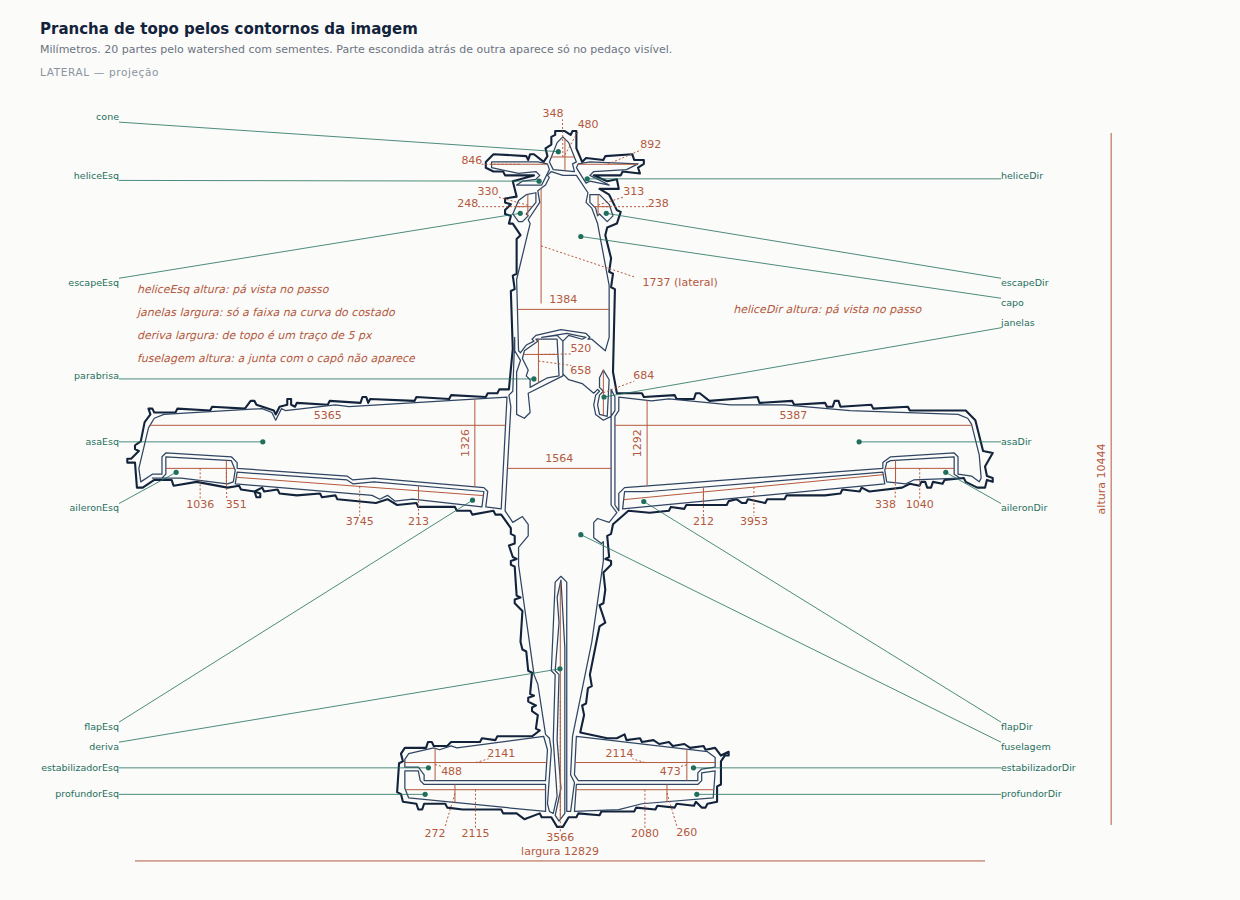
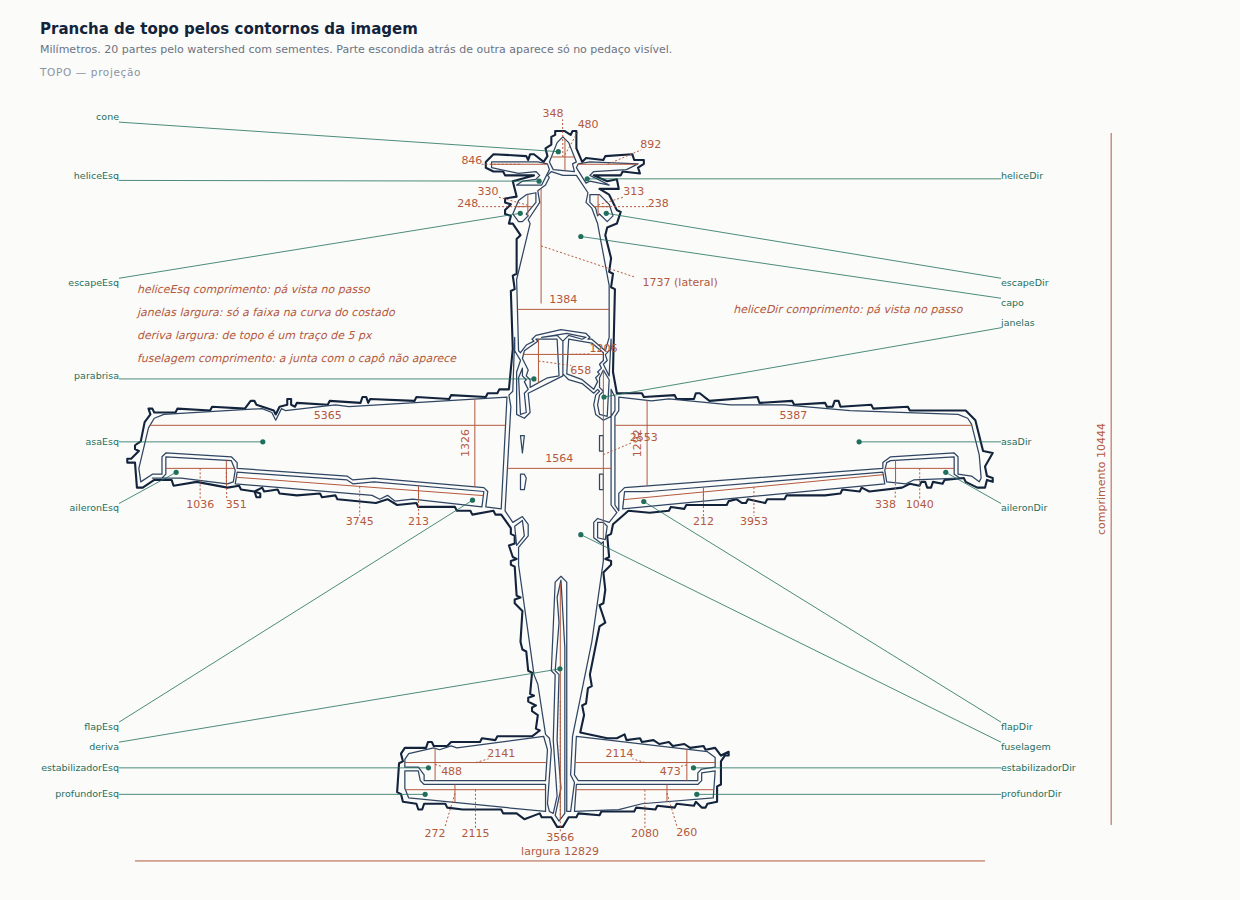
A prancha dos contornos sabe a vista (lateral, topo ou frontal)
Claude-Session: https://claude.ai/code/session_015i1y8CrgTgEfwGG2HEX8g8

diff --git a/docs/mecanifica/banco-de-provas/aviao-2026-10-11/referencias/topo.prancha.pacote/roteiro.md b/docs/mecanifica/banco-de-provas/aviao-2026-10-11/referencias/topo.prancha.pacote/roteiro.md
@@ -4,165 +4,165 @@ Siga as etapas na ordem e não pule nenhuma. Abra o alvo e a prancha em cada eta
 
 ## Etapa 1 — visão geral
 
-Abra o alvo (/home/user/nos-mecanifica/docs/mecanifica/banco-de-provas/aviao-2026-10-11/referencias/topo.png) e a prancha (/home/user/nos-mecanifica/docs/mecanifica/banco-de-provas/aviao-2026-10-11/referencias/topo.prancha.png). Confira se a silhueta da prancha segue a do alvo e se as cotas gerais de largura e altura estão nas bordas do objeto.
+Abra o alvo (/home/user/nos-mecanifica/docs/mecanifica/banco-de-provas/aviao-2026-10-11/referencias/topo.png) e a prancha (/home/user/nos-mecanifica/docs/mecanifica/banco-de-provas/aviao-2026-10-11/referencias/topo.prancha.png). A vista é topo: na horizontal a prancha mede largura e na vertical comprimento. Confira se a silhueta da prancha segue a do alvo e se as cotas gerais de largura e comprimento estão nas bordas do objeto.
 
 ## Etapa 2 — cone
 
-- cotas esperadas: largura (medida aqui) e altura (medida aqui). Cobre só estas duas; cota em falta é `cota` com sentido `faltando`.
+- cotas esperadas: largura (medida aqui) e comprimento (medida aqui). Cobre só estas duas; cota em falta é `cota` com sentido `faltando`.
 - largura: cota 348. A linha atravessa a seção que o modelador precisa, dentro de cone?
-- altura: cota 480. A linha mede cone de ponta a ponta na vertical, sem pegar parte vizinha?
+- comprimento: cota 480. A linha mede cone de ponta a ponta na vertical, sem pegar parte vizinha?
 - nome: "cone" fica na coluna da esquerda. A chamada termina dentro de cone, e não numa vizinha?
 - linhas livres: a chamada e as cotas de cone não cruzam outra linha nem passam sobre número ou nome?
 
 ## Etapa 3 — heliceEsq
 
-- cotas esperadas: largura (medida aqui) e altura (não medível: pá vista no passo). Cobre só estas duas; cota em falta é `cota` com sentido `faltando`.
+- cotas esperadas: largura (medida aqui) e comprimento (não medível: pá vista no passo). Cobre só estas duas; cota em falta é `cota` com sentido `faltando`.
 - largura: cota 846. A linha atravessa a seção que o modelador precisa, dentro de heliceEsq?
-- altura: EM FALTA: só há a nota "pá vista no passo", que não dá número. A linha mede heliceEsq de ponta a ponta na vertical, sem pegar parte vizinha?
+- comprimento: EM FALTA: só há a nota "pá vista no passo", que não dá número. A linha mede heliceEsq de ponta a ponta na vertical, sem pegar parte vizinha?
 - nome: "heliceEsq" fica na coluna da esquerda. A chamada termina dentro de heliceEsq, e não numa vizinha?
 - linhas livres: a chamada e as cotas de heliceEsq não cruzam outra linha nem passam sobre número ou nome?
 
 ## Etapa 4 — escapeEsq
 
-- cotas esperadas: largura (medida aqui) e altura (medida aqui). Cobre só estas duas; cota em falta é `cota` com sentido `faltando`.
+- cotas esperadas: largura (medida aqui) e comprimento (medida aqui). Cobre só estas duas; cota em falta é `cota` com sentido `faltando`.
 - largura: cota 248. A linha atravessa a seção que o modelador precisa, dentro de escapeEsq?
-- altura: cota 330. A linha mede escapeEsq de ponta a ponta na vertical, sem pegar parte vizinha?
+- comprimento: cota 330. A linha mede escapeEsq de ponta a ponta na vertical, sem pegar parte vizinha?
 - nome: "escapeEsq" fica na coluna da esquerda. A chamada termina dentro de escapeEsq, e não numa vizinha?
 - linhas livres: a chamada e as cotas de escapeEsq não cruzam outra linha nem passam sobre número ou nome?
 
 ## Etapa 5 — parabrisa
 
-- cotas esperadas: largura (medida aqui) e altura (medida aqui). Cobre só estas duas; cota em falta é `cota` com sentido `faltando`.
-- largura: cota 520. A linha atravessa a seção que o modelador precisa, dentro de parabrisa?
-- altura: cota 658. A linha mede parabrisa de ponta a ponta na vertical, sem pegar parte vizinha?
+- cotas esperadas: largura (medida aqui) e comprimento (medida aqui). Cobre só estas duas; cota em falta é `cota` com sentido `faltando`.
+- largura: cota 1206. A linha atravessa a seção que o modelador precisa, dentro de parabrisa?
+- comprimento: cota 658. A linha mede parabrisa de ponta a ponta na vertical, sem pegar parte vizinha?
 - nome: "parabrisa" fica na coluna da esquerda. A chamada termina dentro de parabrisa, e não numa vizinha?
 - linhas livres: a chamada e as cotas de parabrisa não cruzam outra linha nem passam sobre número ou nome?
 
 ## Etapa 6 — asaEsq
 
-- cotas esperadas: largura (medida aqui) e altura (medida aqui). Cobre só estas duas; cota em falta é `cota` com sentido `faltando`.
+- cotas esperadas: largura (medida aqui) e comprimento (medida aqui). Cobre só estas duas; cota em falta é `cota` com sentido `faltando`.
 - largura: cota 5365. A linha atravessa a seção que o modelador precisa, dentro de asaEsq?
-- altura: cota 1326. A linha mede asaEsq de ponta a ponta na vertical, sem pegar parte vizinha?
+- comprimento: cota 1326. A linha mede asaEsq de ponta a ponta na vertical, sem pegar parte vizinha?
 - nome: "asaEsq" fica na coluna da esquerda. A chamada termina dentro de asaEsq, e não numa vizinha?
 - linhas livres: a chamada e as cotas de asaEsq não cruzam outra linha nem passam sobre número ou nome?
 
 ## Etapa 7 — aileronEsq
 
-- cotas esperadas: largura (medida aqui) e altura (medida aqui). Cobre só estas duas; cota em falta é `cota` com sentido `faltando`.
+- cotas esperadas: largura (medida aqui) e comprimento (medida aqui). Cobre só estas duas; cota em falta é `cota` com sentido `faltando`.
 - largura: cota 1036. A linha atravessa a seção que o modelador precisa, dentro de aileronEsq?
-- altura: cota 351. A linha mede aileronEsq de ponta a ponta na vertical, sem pegar parte vizinha?
+- comprimento: cota 351. A linha mede aileronEsq de ponta a ponta na vertical, sem pegar parte vizinha?
 - nome: "aileronEsq" fica na coluna da esquerda. A chamada termina dentro de aileronEsq, e não numa vizinha?
 - linhas livres: a chamada e as cotas de aileronEsq não cruzam outra linha nem passam sobre número ou nome?
 
 ## Etapa 8 — flapEsq
 
-- cotas esperadas: largura (medida aqui) e altura (medida aqui). Cobre só estas duas; cota em falta é `cota` com sentido `faltando`.
+- cotas esperadas: largura (medida aqui) e comprimento (medida aqui). Cobre só estas duas; cota em falta é `cota` com sentido `faltando`.
 - largura: cota 3745. A linha atravessa a seção que o modelador precisa, dentro de flapEsq?
-- altura: cota 213. A linha mede flapEsq de ponta a ponta na vertical, sem pegar parte vizinha?
+- comprimento: cota 213. A linha mede flapEsq de ponta a ponta na vertical, sem pegar parte vizinha?
 - nome: "flapEsq" fica na coluna da esquerda. A chamada termina dentro de flapEsq, e não numa vizinha?
 - linhas livres: a chamada e as cotas de flapEsq não cruzam outra linha nem passam sobre número ou nome?
 
 ## Etapa 9 — deriva
 
-- cotas esperadas: largura (não medível: de topo é um traço de 5 px) e altura (medida aqui). Cobre só estas duas; cota em falta é `cota` com sentido `faltando`.
+- cotas esperadas: largura (não medível: de topo é um traço de 5 px) e comprimento (medida aqui). Cobre só estas duas; cota em falta é `cota` com sentido `faltando`.
 - largura: EM FALTA: só há a nota "de topo é um traço de 5 px", que não dá número. A linha atravessa a seção que o modelador precisa, dentro de deriva?
-- altura: cota 3566. A linha mede deriva de ponta a ponta na vertical, sem pegar parte vizinha?
+- comprimento: cota 3566. A linha mede deriva de ponta a ponta na vertical, sem pegar parte vizinha?
 - nome: "deriva" fica na coluna da esquerda. A chamada termina dentro de deriva, e não numa vizinha?
 - linhas livres: a chamada e as cotas de deriva não cruzam outra linha nem passam sobre número ou nome?
 
 ## Etapa 10 — estabilizadorEsq
 
-- cotas esperadas: largura (medida aqui) e altura (medida aqui). Cobre só estas duas; cota em falta é `cota` com sentido `faltando`.
+- cotas esperadas: largura (medida aqui) e comprimento (medida aqui). Cobre só estas duas; cota em falta é `cota` com sentido `faltando`.
 - largura: cota 2141. A linha atravessa a seção que o modelador precisa, dentro de estabilizadorEsq?
-- altura: cota 488. A linha mede estabilizadorEsq de ponta a ponta na vertical, sem pegar parte vizinha?
+- comprimento: cota 488. A linha mede estabilizadorEsq de ponta a ponta na vertical, sem pegar parte vizinha?
 - nome: "estabilizadorEsq" fica na coluna da esquerda. A chamada termina dentro de estabilizadorEsq, e não numa vizinha?
 - linhas livres: a chamada e as cotas de estabilizadorEsq não cruzam outra linha nem passam sobre número ou nome?
 
 ## Etapa 11 — profundorEsq
 
-- cotas esperadas: largura (medida aqui) e altura (medida aqui). Cobre só estas duas; cota em falta é `cota` com sentido `faltando`.
+- cotas esperadas: largura (medida aqui) e comprimento (medida aqui). Cobre só estas duas; cota em falta é `cota` com sentido `faltando`.
 - largura: cota 2115. A linha atravessa a seção que o modelador precisa, dentro de profundorEsq?
-- altura: cota 272. A linha mede profundorEsq de ponta a ponta na vertical, sem pegar parte vizinha?
+- comprimento: cota 272. A linha mede profundorEsq de ponta a ponta na vertical, sem pegar parte vizinha?
 - nome: "profundorEsq" fica na coluna da esquerda. A chamada termina dentro de profundorEsq, e não numa vizinha?
 - linhas livres: a chamada e as cotas de profundorEsq não cruzam outra linha nem passam sobre número ou nome?
 
 ## Etapa 12 — heliceDir
 
-- cotas esperadas: largura (medida aqui) e altura (não medível: pá vista no passo). Cobre só estas duas; cota em falta é `cota` com sentido `faltando`.
+- cotas esperadas: largura (medida aqui) e comprimento (não medível: pá vista no passo). Cobre só estas duas; cota em falta é `cota` com sentido `faltando`.
 - largura: cota 892. A linha atravessa a seção que o modelador precisa, dentro de heliceDir?
-- altura: EM FALTA: só há a nota "pá vista no passo", que não dá número. A linha mede heliceDir de ponta a ponta na vertical, sem pegar parte vizinha?
+- comprimento: EM FALTA: só há a nota "pá vista no passo", que não dá número. A linha mede heliceDir de ponta a ponta na vertical, sem pegar parte vizinha?
 - nome: "heliceDir" fica na coluna da direita. A chamada termina dentro de heliceDir, e não numa vizinha?
 - linhas livres: a chamada e as cotas de heliceDir não cruzam outra linha nem passam sobre número ou nome?
 
 ## Etapa 13 — escapeDir
 
-- cotas esperadas: largura (medida aqui) e altura (medida aqui). Cobre só estas duas; cota em falta é `cota` com sentido `faltando`.
+- cotas esperadas: largura (medida aqui) e comprimento (medida aqui). Cobre só estas duas; cota em falta é `cota` com sentido `faltando`.
 - largura: cota 238. A linha atravessa a seção que o modelador precisa, dentro de escapeDir?
-- altura: cota 313. A linha mede escapeDir de ponta a ponta na vertical, sem pegar parte vizinha?
+- comprimento: cota 313. A linha mede escapeDir de ponta a ponta na vertical, sem pegar parte vizinha?
 - nome: "escapeDir" fica na coluna da direita. A chamada termina dentro de escapeDir, e não numa vizinha?
 - linhas livres: a chamada e as cotas de escapeDir não cruzam outra linha nem passam sobre número ou nome?
 
 ## Etapa 14 — capo
 
-- cotas esperadas: largura (medida aqui) e altura (da vista lateral). Cobre só estas duas; cota em falta é `cota` com sentido `faltando`.
+- cotas esperadas: largura (medida aqui) e comprimento (da vista lateral). Cobre só estas duas; cota em falta é `cota` com sentido `faltando`.
 - largura: cota 1384. A linha atravessa a seção que o modelador precisa, dentro de capo?
-- altura: cota 1737 (lateral), tirada da vista lateral. A linha mede capo de ponta a ponta na vertical, sem pegar parte vizinha?
+- comprimento: cota 1737 (lateral), tirada da vista lateral. A linha mede capo de ponta a ponta na vertical, sem pegar parte vizinha?
 - nome: "capo" fica na coluna da direita. A chamada termina dentro de capo, e não numa vizinha?
 - linhas livres: a chamada e as cotas de capo não cruzam outra linha nem passam sobre número ou nome?
 
 ## Etapa 15 — janelas
 
-- cotas esperadas: largura (não medível: só a faixa na curva do costado) e altura (medida aqui). Cobre só estas duas; cota em falta é `cota` com sentido `faltando`.
+- cotas esperadas: largura (não medível: só a faixa na curva do costado) e comprimento (medida aqui). Cobre só estas duas; cota em falta é `cota` com sentido `faltando`.
 - largura: EM FALTA: só há a nota "só a faixa na curva do costado", que não dá número. A linha atravessa a seção que o modelador precisa, dentro de janelas?
-- altura: cota 684. A linha mede janelas de ponta a ponta na vertical, sem pegar parte vizinha?
+- comprimento: cota 2553. A linha mede janelas de ponta a ponta na vertical, sem pegar parte vizinha?
 - nome: "janelas" fica na coluna da direita. A chamada termina dentro de janelas, e não numa vizinha?
 - linhas livres: a chamada e as cotas de janelas não cruzam outra linha nem passam sobre número ou nome?
 
 ## Etapa 16 — asaDir
 
-- cotas esperadas: largura (medida aqui) e altura (medida aqui). Cobre só estas duas; cota em falta é `cota` com sentido `faltando`.
+- cotas esperadas: largura (medida aqui) e comprimento (medida aqui). Cobre só estas duas; cota em falta é `cota` com sentido `faltando`.
 - largura: cota 5387. A linha atravessa a seção que o modelador precisa, dentro de asaDir?
-- altura: cota 1292. A linha mede asaDir de ponta a ponta na vertical, sem pegar parte vizinha?
+- comprimento: cota 1292. A linha mede asaDir de ponta a ponta na vertical, sem pegar parte vizinha?
 - nome: "asaDir" fica na coluna da direita. A chamada termina dentro de asaDir, e não numa vizinha?
 - linhas livres: a chamada e as cotas de asaDir não cruzam outra linha nem passam sobre número ou nome?
 
 ## Etapa 17 — aileronDir
 
-- cotas esperadas: largura (medida aqui) e altura (medida aqui). Cobre só estas duas; cota em falta é `cota` com sentido `faltando`.
+- cotas esperadas: largura (medida aqui) e comprimento (medida aqui). Cobre só estas duas; cota em falta é `cota` com sentido `faltando`.
 - largura: cota 1040. A linha atravessa a seção que o modelador precisa, dentro de aileronDir?
-- altura: cota 338. A linha mede aileronDir de ponta a ponta na vertical, sem pegar parte vizinha?
+- comprimento: cota 338. A linha mede aileronDir de ponta a ponta na vertical, sem pegar parte vizinha?
 - nome: "aileronDir" fica na coluna da direita. A chamada termina dentro de aileronDir, e não numa vizinha?
 - linhas livres: a chamada e as cotas de aileronDir não cruzam outra linha nem passam sobre número ou nome?
 
 ## Etapa 18 — flapDir
 
-- cotas esperadas: largura (medida aqui) e altura (medida aqui). Cobre só estas duas; cota em falta é `cota` com sentido `faltando`.
+- cotas esperadas: largura (medida aqui) e comprimento (medida aqui). Cobre só estas duas; cota em falta é `cota` com sentido `faltando`.
 - largura: cota 3953. A linha atravessa a seção que o modelador precisa, dentro de flapDir?
-- altura: cota 212. A linha mede flapDir de ponta a ponta na vertical, sem pegar parte vizinha?
+- comprimento: cota 212. A linha mede flapDir de ponta a ponta na vertical, sem pegar parte vizinha?
 - nome: "flapDir" fica na coluna da direita. A chamada termina dentro de flapDir, e não numa vizinha?
 - linhas livres: a chamada e as cotas de flapDir não cruzam outra linha nem passam sobre número ou nome?
 
 ## Etapa 19 — fuselagem
 
-- cotas esperadas: largura (medida aqui) e altura (não medível: a junta com o capô não aparece). Cobre só estas duas; cota em falta é `cota` com sentido `faltando`.
+- cotas esperadas: largura (medida aqui) e comprimento (não medível: a junta com o capô não aparece). Cobre só estas duas; cota em falta é `cota` com sentido `faltando`.
 - largura: cota 1564. A linha atravessa a seção que o modelador precisa, dentro de fuselagem?
-- altura: EM FALTA: só há a nota "a junta com o capô não aparece", que não dá número. A linha mede fuselagem de ponta a ponta na vertical, sem pegar parte vizinha?
+- comprimento: EM FALTA: só há a nota "a junta com o capô não aparece", que não dá número. A linha mede fuselagem de ponta a ponta na vertical, sem pegar parte vizinha?
 - nome: "fuselagem" fica na coluna da direita. A chamada termina dentro de fuselagem, e não numa vizinha?
 - linhas livres: a chamada e as cotas de fuselagem não cruzam outra linha nem passam sobre número ou nome?
 
 ## Etapa 20 — estabilizadorDir
 
-- cotas esperadas: largura (medida aqui) e altura (medida aqui). Cobre só estas duas; cota em falta é `cota` com sentido `faltando`.
+- cotas esperadas: largura (medida aqui) e comprimento (medida aqui). Cobre só estas duas; cota em falta é `cota` com sentido `faltando`.
 - largura: cota 2114. A linha atravessa a seção que o modelador precisa, dentro de estabilizadorDir?
-- altura: cota 473. A linha mede estabilizadorDir de ponta a ponta na vertical, sem pegar parte vizinha?
+- comprimento: cota 473. A linha mede estabilizadorDir de ponta a ponta na vertical, sem pegar parte vizinha?
 - nome: "estabilizadorDir" fica na coluna da direita. A chamada termina dentro de estabilizadorDir, e não numa vizinha?
 - linhas livres: a chamada e as cotas de estabilizadorDir não cruzam outra linha nem passam sobre número ou nome?
 
 ## Etapa 21 — profundorDir
 
-- cotas esperadas: largura (medida aqui) e altura (medida aqui). Cobre só estas duas; cota em falta é `cota` com sentido `faltando`.
+- cotas esperadas: largura (medida aqui) e comprimento (medida aqui). Cobre só estas duas; cota em falta é `cota` com sentido `faltando`.
 - largura: cota 2080. A linha atravessa a seção que o modelador precisa, dentro de profundorDir?
-- altura: cota 260. A linha mede profundorDir de ponta a ponta na vertical, sem pegar parte vizinha?
+- comprimento: cota 260. A linha mede profundorDir de ponta a ponta na vertical, sem pegar parte vizinha?
 - nome: "profundorDir" fica na coluna da direita. A chamada termina dentro de profundorDir, e não numa vizinha?
 - linhas livres: a chamada e as cotas de profundorDir não cruzam outra linha nem passam sobre número ou nome?
 

diff --git a/.claude/skills/prancha-dos-contornos/SKILL.md b/.claude/skills/prancha-dos-contornos/SKILL.md
@@ -1,6 +1,6 @@
 ---
 name: prancha-dos-contornos
-description: Faz a prancha lateral a partir dos contornos do mapa de partes, com o desenhista escolhendo as cotas e um crítico dando nota. Use depois do mapa, antes da modelagem. Não use para carroceria por medida declarada; essa é a desenhar-prancha.
+description: Faz a prancha de uma vista (lateral, de topo ou frontal) a partir dos contornos do mapa de partes, com o desenhista escolhendo as cotas e um crítico dando nota. Use depois do mapa, antes da modelagem. Não use para carroceria por medida declarada; essa é a desenhar-prancha.
 ---
 
 # Prancha dos contornos
@@ -15,6 +15,18 @@ comando não sabe: as cotas de cada parte, a conferência da calibração e o qu
 a imagem esconde. Sem esse trabalho o crítico aprovaria uma cópia do contorno.
 
 ## O ciclo
+
+A prancha é de uma vista só, a da imagem: `lateral` (padrão, a do braço),
+`topo` ou `frontal`. A vista vem de `"vista"` em `<imagem>.prancha.json`, que
+o desenhista escreve junto com as cotas, e dá o rótulo e o título da prancha
+e o nome do que cada sentido da imagem mede. Nas escolhas, `largura` é sempre
+o sentido horizontal da imagem e `altura` o vertical; na lateral a horizontal
+é o comprimento e a vertical a altura, no topo a horizontal é a largura e a
+vertical o comprimento, e na frontal são largura e altura. As cotas gerais e o
+roteiro do crítico falam nessas palavras, então numa prancha de topo a cota
+`altura` do arquivo sai escrita comprimento. Imagem chamada `topo` ou
+`frontal` sem `"vista"` no arquivo não gera prancha: o comando sai com código
+2 pedindo a vista, para a de topo não sair rotulada como lateral.
 
 Pergunte a ação, sempre:
 
@@ -63,7 +75,7 @@ entra.
 **Crítico.** Despache o `critico-visual` com a imagem de referência como alvo,
 `<imagem>.prancha.png` como modelo e o roteiro
 `<imagem>.prancha.pacote/roteiro.md`, que o comando grava a cada prancha e
-tem uma etapa por parte: largura, altura, nome e linhas livres. Pergunte se a silhueta e cada parte da
+tem uma etapa por parte: as duas medidas da vista (na lateral comprimento e altura, no topo largura e comprimento), nome e linhas livres. Pergunte se a silhueta e cada parte da
 prancha seguem a imagem, se as cotas estão nas partes que o modelador precisa
 e se alguma medida contradiz o alinhamento. Nunca mande as escolhas do agente
 nem o que mudou.

diff --git a/docs/MAPA.md b/docs/MAPA.md
@@ -88,7 +88,7 @@
 
 ## .claude/skills/prancha-dos-contornos/
 
-- `SKILL.md` — Faz a prancha lateral a partir dos contornos do mapa de partes, com o desenhista escolhendo as cotas e um crítico dando nota. Use depois do mapa, antes da mo…
+- `SKILL.md` — Faz a prancha de uma vista (lateral, de topo ou frontal) a partir dos contornos do mapa de partes, com o desenhista escolhendo as cotas e um crítico dando no…
 
 ## docs/
 
@@ -1504,7 +1504,7 @@
 - `prancha-autoria.mjs` — Contrato curto entre a intenção declarada e o vetor que o motor desenha. Ele não tenta adivinhar confiança: exige que a IA exponha fonte, limite e bloqueio p…
 - `prancha-chassi-p0.mjs` — prancha-chassi-p0.mjs — especificação da prancha ortográfica ALVO da rodada P0 do chassi realista, desenhada por tools/mecanifica/prancha.mjs. Não é a projeç…
 - `prancha-cupe-cunha.mjs` — prancha-cupe-cunha.mjs — prova R5 do plano do motor de prancha: uma carroceria ficcional desenhada do zero com âncora proporcional, traçado por filete e julg…
-- `prancha-dos-contornos.mjs` — prancha-dos-contornos.mjs — a prancha lateral desenhada com os contornos que `npm run contorno` tirou da imagem de referência, em milímetro.
+- `prancha-dos-contornos.mjs` — prancha-dos-contornos.mjs — a prancha de uma vista desenhada com os contornos que `npm run contorno` tirou da imagem de referência, em milímetro.
 - `prancha-dos-contornos.test.mjs` — prancha-dos-contornos.test.mjs — a prancha da lateral do braço sai dos contornos gravados, sem parte fora da silhueta e sem a parte fora do modelo.
 - `prancha-geometria.mjs` — prancha-geometria.mjs — traçado 2D em milímetros para as pranchas ortográficas. Tudo aqui devolve POLILINHA AMOSTRADA, nunca comando de SVG: é essa decisão q…
 - `prancha-r4-independente.mjs` — Prancha R4, escrita sem reutilizar as receitas P0 ou cupê. É um briefing ficcional completo: o arquivo é a autoria declarativa, não uma malha.

diff --git a/docs/mecanifica/banco-de-provas/aviao-2026-10-11/referencias/lateral.prancha.pacote/roteiro.md b/docs/mecanifica/banco-de-provas/aviao-2026-10-11/referencias/lateral.prancha.pacote/roteiro.md
@@ -33,7 +33,7 @@ Abra o alvo (/home/user/nos-mecanifica/docs/mecanifica/banco-de-provas/aviao-202
 ## Etapa 5 — janelas
 
 - cotas esperadas: largura (medida aqui) e altura (medida aqui). Cobre só estas duas; cota em falta é `cota` com sentido `faltando`.
-- largura: cota 704. A linha atravessa a seção que o modelador precisa, dentro de janelas?
+- largura: cota 2606. A linha atravessa a seção que o modelador precisa, dentro de janelas?
 - altura: cota 352. A linha mede janelas de ponta a ponta na vertical, sem pegar parte vizinha?
 - nome: "janelas" fica na coluna da esquerda. A chamada termina dentro de janelas, e não numa vizinha?
 - linhas livres: a chamada e as cotas de janelas não cruzam outra linha nem passam sobre número ou nome?
@@ -66,7 +66,7 @@ Abra o alvo (/home/user/nos-mecanifica/docs/mecanifica/banco-de-provas/aviao-202
 
 - cotas esperadas: largura (medida aqui) e altura (medida aqui). Cobre só estas duas; cota em falta é `cota` com sentido `faltando`.
 - largura: cota 164. A linha atravessa a seção que o modelador precisa, dentro de helice?
-- altura: cota 752. A linha mede helice de ponta a ponta na vertical, sem pegar parte vizinha?
+- altura: cota 1945. A linha mede helice de ponta a ponta na vertical, sem pegar parte vizinha?
 - nome: "helice" fica na coluna da esquerda. A chamada termina dentro de helice, e não numa vizinha?
 - linhas livres: a chamada e as cotas de helice não cruzam outra linha nem passam sobre número ou nome?
 

diff --git a/.claude/agents/desenhista-de-prancha.md b/.claude/agents/desenhista-de-prancha.md
@@ -4,11 +4,14 @@ description: Decide cotas, calibração e o que a imagem esconde no `<imagem>.pr
 model: opus
 ---
 
-Você é o desenhista de prancha da Mecanifica. A prancha lateral sai inteira
-dos contornos que o mapa de partes tirou da imagem: silhueta, partes e cotas
-gerais. O seu trabalho é o que esse comando não sabe decidir.
+Você é o desenhista de prancha da Mecanifica. A prancha de uma vista sai
+inteira dos contornos que o mapa de partes tirou da imagem: silhueta, partes e
+cotas gerais. O seu trabalho é o que esse comando não sabe decidir.
 
 O que você decide e grava em `<imagem>.prancha.json`:
+
+- a vista, em `"vista": "lateral" | "topo" | "frontal"` (lateral quando
+  omitida; imagem chamada topo ou frontal sem o campo é recusada);
 
 - as cotas que importam em cada parte, na forma
   `{ "cotas": [{ "parte": "base", "medida": "largura" }] }`, com `medida`

diff --git a/docs/mecanifica/banco-de-provas/aviao-2026-10-11/ATRITOS.md b/docs/mecanifica/banco-de-provas/aviao-2026-10-11/ATRITOS.md
@@ -71,3 +71,8 @@ planta e a lateral são as duas vistas principais.
 ```bash
 grep -n "LATERAL" tools/mecanifica/prancha/*.mjs
 ```
+
+Corrigido em 2026-10-12: o `<imagem>.prancha.json` declara `"vista"` (lateral,
+topo ou frontal, lateral por padrão), o rótulo, as cotas gerais, o relatório e o
+roteiro do crítico usam as palavras da vista, e imagem chamada topo ou frontal
+sem o campo é recusada. A skill e o agente desenhista dizem isso.
